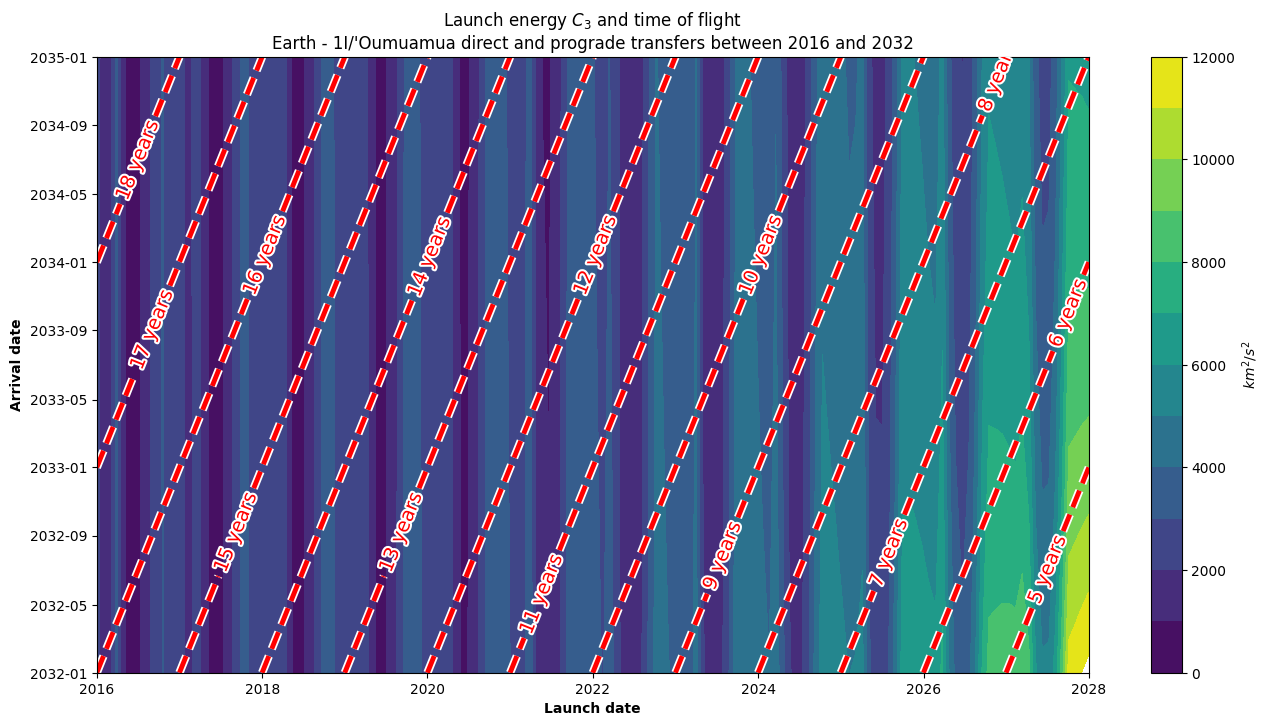
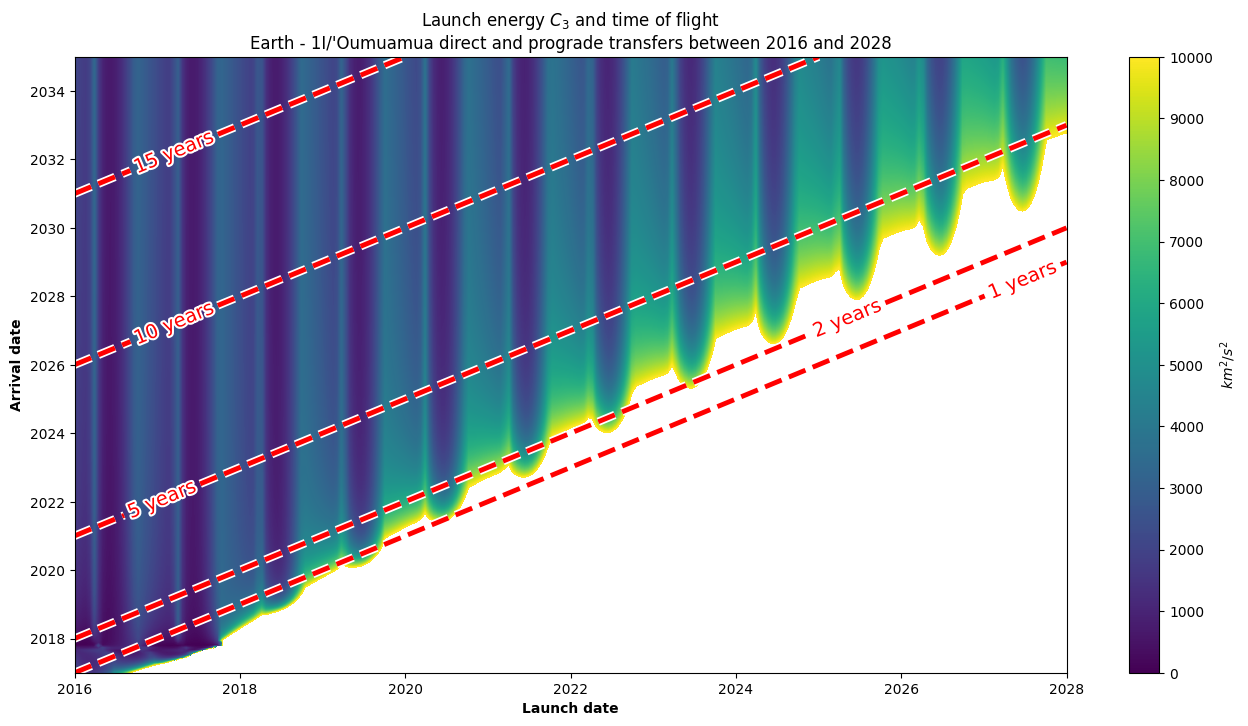
feat: reproducible porkchop for oumuamua

diff --git a/bin/oumuamua_porkchop.py b/bin/oumuamua_porkchop.py
@@ -3,21 +3,17 @@ from astropy.time import Time
 from matplotlib import pyplot as plt
 import numpy as np
 
-from poliastro.bodies import Earth, Sun
 from poliastro.ephem import Ephem
 from poliastro.frames import Planes
-from poliastro.twobody import Orbit
 from poliastro.plotting.porkchop import PorkchopPlotter
 from poliastro.util import time_range
 
 
 def solve_porkchop(prograde=True):
     # Declare the launch and arrival spans
-    #launch_span = time_range("2016-01-01", spacing=1*u.day, end="2028-01-01", scale="tdb")
-    #arrival_span = time_range("2032-01-01", spacing=1*u.day, end="2035-01-01", scale="tdb")
-    N = 150
+    N = 250
     launch_span = time_range("2016-01-01", end="2028-01-01", num_values=N, scale="tdb")
-    arrival_span = time_range("2032-01-01", end="2035-01-01", num_values=N, scale="tdb")
+    arrival_span = time_range("2017-01-01", end="2035-01-01", num_values=N, scale="tdb")
 
     # Load the ephemerides for the Earth and 'Oumuamua
     earth = Ephem.from_csv("bin/ephem/earth.csv", plane=Planes.EARTH_ECLIPTIC)
@@ -28,49 +24,45 @@ def solve_porkchop(prograde=True):
         earth, oumuamua, launch_span, arrival_span, prograde=prograde
     )
 
-def solve_launch_energy():
-    for prograde in [True, False]:
-        porkchop = solve_porkchop(prograde)
-        inclination = "prograde" if prograde else "retrograde"
-        _, ax = plt.subplots(1, 1, figsize=(16, 8))
-        porkchop.plot_launch_energy(
-            levels=np.linspace(0, 12e3, 13) * u.km ** 2 / u.s ** 2,
-            plot_contour_lines=False,
-            ax=ax,
-        )
-        porkchop.plot_time_of_flight(
-            levels=np.linspace(0, 20, 21) * u.year,
-            ax=ax
-        )
-        porkchop.ax.set_title(f"Launch energy $C_3$ and time of flight\nEarth - 1I/'Oumuamua direct and {inclination} transfers between 2016 and 2032")
-        plt.savefig(f"fig/static/oumuamua/direct-{inclination}-transfer-porkchop.png", bbox_inches="tight")
+def solve_launch_energy(porkchop, inclination):
+    porkchop = solve_porkchop(prograde)
+    inclination = "prograde" if prograde else "retrograde"
+    _, ax = plt.subplots(1, 1, figsize=(16, 8))
+    porkchop.plot_launch_energy(
+        levels=np.linspace(0, 10e3, int(1001)) * u.km ** 2 / u.s ** 2,
+        plot_contour_lines=False,
+        ax=ax,
+    )
+    porkchop.c3_colorbar.set_ticks(np.linspace(0, 10e3, 11).astype(int))
+    porkchop.c3_colorbar.set_ticklabels(np.linspace(0, 10e3, 11).astype(int))
+    porkchop.plot_time_of_flight(
+        levels=[1, 2, 5, 10, 15] * u.year,
+        ax=ax,
+        use_years=True,
+    )
+    porkchop.ax.set_title(f"Launch energy $C_3$ and time of flight\nEarth - 1I/'Oumuamua direct and {inclination} transfers between 2016 and 2028")
+    plt.savefig(f"fig/static/oumuamua/direct-{inclination}-transfer-porkchop.png", bbox_inches="tight")
 
-def solve_arrival_velocity():
-    for prograde in [True, False]:
-        porkchop = solve_porkchop(prograde)
-        inclination = "prograde" if prograde else "retrograde"
-        _, ax = plt.subplots(1, 1, figsize=(16, 8))
-        porkchop.plot_launch_energy(
-            levels=np.linspace(0, 12e3, 13) * u.km ** 2 / u.s ** 2,
-            plot_contour_lines=False,
-            ax=ax,
-        )
-        porkchop.plot_arrival_velocity(
-            levels=np.linspace(20, 60, 5) * u.km / u.s,
-            ax=ax
-        )
-        porkchop.plot_arrival_velocity(
-            levels=np.linspace(0, 15, 6) * u.km / u.s,
-            ax=ax
-        )
-        porkchop.plot_arrival_velocity(
-            levels=np.linspace(0, 2, 3) * u.km / u.s,
-            ax=ax
-        )
-        porkchop.ax.set_title(f"Launch energy $C_3$ and arrival velocity\nEarth - 1I/'Oumuamua direct and {inclination} transfers between 2016 and 2032")
-        plt.savefig(f"fig/static/oumuamua/direct-{inclination}-transfer-porkchop-avl.png", bbox_inches="tight")
+def solve_arrival_velocity(porkchop, inclination):
+    _, ax = plt.subplots(1, 1, figsize=(16, 8))
+    porkchop.plot_launch_energy(
+        levels=np.linspace(0, 10e3, int(1001)) * u.km ** 2 / u.s ** 2,
+        plot_contour_lines=False,
+        ax=ax,
+    )
+    porkchop.c3_colorbar.set_ticks(np.linspace(0, 10e3, 11).astype(int))
+    porkchop.c3_colorbar.set_ticklabels(np.linspace(0, 10e3, 11).astype(int))
+    porkchop.plot_arrival_velocity(
+        levels=[2, 6, 10, 15, 20, 30, 60] * u.km / u.s,
+        ax=ax
+    )
+    porkchop.ax.set_title(f"Launch energy $C_3$ and arrival velocity\nEarth - 1I/'Oumuamua direct and {inclination} transfers between 2016 and 2028")
+    plt.savefig(f"fig/static/oumuamua/direct-{inclination}-transfer-porkchop-avl.png", bbox_inches="tight")
 
 
 if __name__ == "__main__":
-    solve_launch_energy()
-    solve_arrival_velocity()
+    for prograde in [True, False]:
+        porkchop = solve_porkchop(prograde)
+        inclination = "prograde" if prograde else "retrograde"
+        solve_launch_energy(porkchop, inclination)
+        solve_arrival_velocity(porkchop, inclination)
